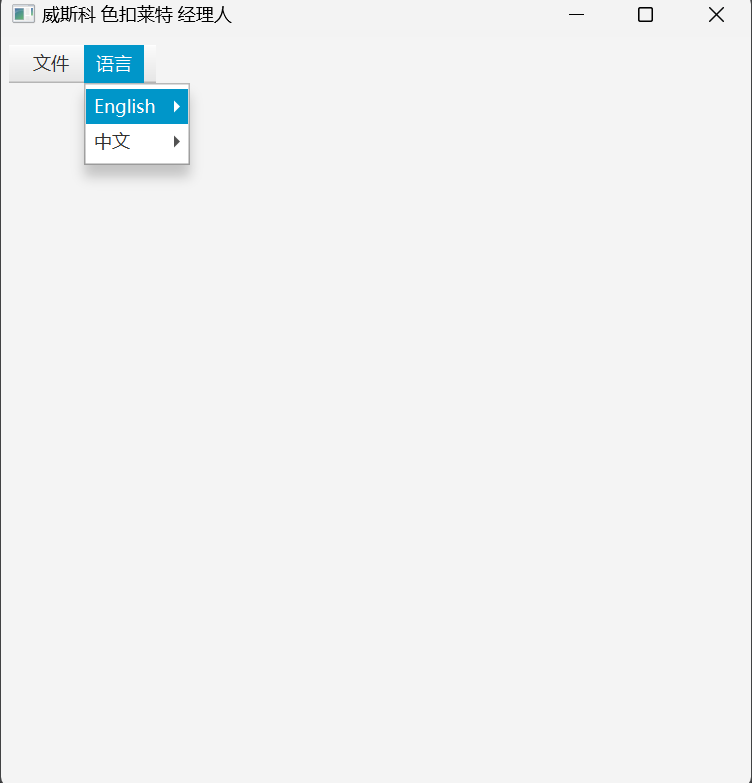
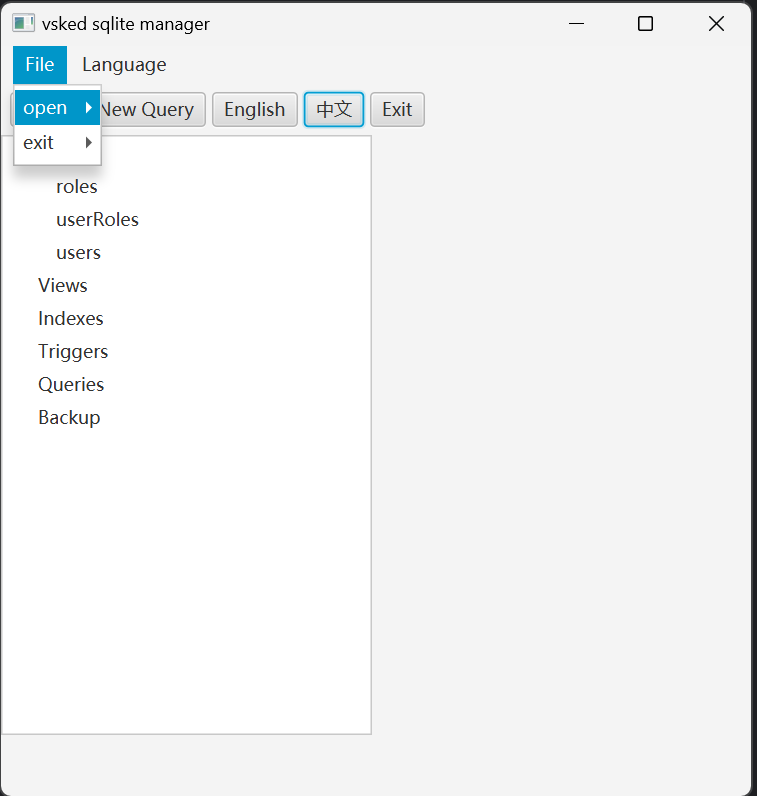
show tables in tables list
update connection remove exception and log
add table ,table list ,table name and table service.
optimize file open ,close ,english,chinese button action bind

Changed region(s): [[0.0, 0.0, 1.0, 1.0], [0.0306, 0.3985, 0.1529, 0.4904], [0.0612, 0.5211, 0.1223, 0.5517]]

diff --git a/src/main/java/com/vsked/sqlitemanager/ui/ApplicationMainUI.java b/src/main/java/com/vsked/sqlitemanager/ui/ApplicationMainUI.java
@@ -1,7 +1,12 @@
 package com.vsked.sqlitemanager.ui;
 
 import com.vsked.sqlitemanager.domain.I18N;
+import com.vsked.sqlitemanager.domain.VConnection;
+import com.vsked.sqlitemanager.domain.VDatabaseFile;
+import com.vsked.sqlitemanager.domain.VTable;
+import com.vsked.sqlitemanager.domain.VTableList;
 import com.vsked.sqlitemanager.services.ApplicationService;
+import com.vsked.sqlitemanager.services.TableService;
 import javafx.application.Application;
 import javafx.application.Platform;
 import javafx.event.ActionEvent;
@@ -19,6 +24,8 @@ import javafx.stage.Stage;
 import javafx.stage.WindowEvent;
 import org.slf4j.Logger;
 import org.slf4j.LoggerFactory;
+
+import java.util.List;
 import java.util.Locale;
 
 
@@ -49,16 +56,6 @@ public class ApplicationMainUI extends Application {
 		Menu fileOpenMenu = I18N.menuForKey("menuItem.open");
 		Menu fileExitMenu = I18N.menuForKey("menuItem.exit");
 
-		fileOpenMenu.setOnAction(new EventHandler<ActionEvent>() {
-
-			@Override
-			public void handle(ActionEvent event) {
-				if(log.isTraceEnabled()) {
-					log.trace("You click the file open menu from menu Item");
-				}
-				applicationService.openDataBaseFile(stage);
-			}
-		});
 
 		fileExitMenu.setOnAction(new EventHandler<ActionEvent>() {
 
@@ -112,37 +109,12 @@ public class ApplicationMainUI extends Application {
 		Button chineseBt=I18N.buttonForKey("button.chinese");
 		Button exitBt=I18N.buttonForKey("button.exit");
 
-		englishBt.setOnAction(new EventHandler<ActionEvent>() {
-			@Override
-			public void handle(ActionEvent event) {
-				if(log.isTraceEnabled()) {
-					log.trace("You click the english button from tool bar");
-				}
-				switchLanguage(Locale.ENGLISH);
-			}
-		});
 
-		chineseBt.setOnAction(new EventHandler<ActionEvent>() {
+		englishBt.setOnAction(englishMenu.getOnAction());
 
-			@Override
-			public void handle(ActionEvent event) {
-				if(log.isTraceEnabled()) {
-					log.trace("You click the chinese button from tool bar");
-				}
-				switchLanguage(Locale.CHINESE);
-			}
-		});
+		chineseBt.setOnAction(chineseMenu.getOnAction());
 
-		exitBt.setOnAction(new EventHandler<ActionEvent>() {
-
-			@Override
-			public void handle(ActionEvent event) {
-				if(log.isTraceEnabled()) {
-					log.trace("You click the file exit button from tool bar");
-				}
-				applicationService.exit();
-			}
-		});
+		exitBt.setOnAction(fileExitMenu.getOnAction());
 
 		toolBar.getItems().add(openBt);
 		toolBar.getItems().add(queryBt);
@@ -155,8 +127,6 @@ public class ApplicationMainUI extends Application {
 		GridPane topGridPane=new GridPane();
 		topGridPane.add(menuBar,0,0);
 		topGridPane.add(toolBar,0,1);
-
-
 
 		content.setTop(topGridPane);
 
@@ -185,6 +155,28 @@ public class ApplicationMainUI extends Application {
 
 		leftGridPane.add(systemViewTree,0,0);
 		content.setLeft(leftGridPane);
+
+		fileOpenMenu.setOnAction(new EventHandler<ActionEvent>() {
+
+			@Override
+			public void handle(ActionEvent event) {
+				if(log.isTraceEnabled()) {
+					log.trace("You click the file open menu from menu Item");
+				}
+				VDatabaseFile databaseFile=applicationService.openDataBaseFile(stage);
+				VConnection connection=new VConnection(databaseFile);
+				TableService tableService=new TableService();
+				VTableList vTableList=tableService.getTables(connection);
+				List<VTable> tableList=vTableList.getTables();
+				for(VTable table:tableList){
+					TreeItem<String> tablesItemNode=new TreeItem<>(table.getTableName().getTableName());
+					tablesItem.getChildren().add(tablesItemNode);
+				}
+
+			}
+		});
+
+		openBt.setOnAction(fileOpenMenu.getOnAction());
 
 
 		Scene scene = new Scene(content, 500, 500);

diff --git a/src/main/java/com/vsked/sqlitemanager/domain/VConnection.java b/src/main/java/com/vsked/sqlitemanager/domain/VConnection.java
@@ -8,36 +8,31 @@ public class VConnection {
 
     private final Connection connection;
 
-    public VConnection(Connection connection) throws SQLException {
-        if(connection==null){
-            throw new SQLException("connection is null");
+    public VConnection(VDatabaseFile databaseFile) {
+        if(databaseFile==null){
+            throw new IllegalArgumentException("connection database file is null code1");
         }
 
-        if(connection.isClosed()){
-            throw new SQLException("connection has closed");
+        if(databaseFile.getDatabaseFile()==null){
+            throw new IllegalArgumentException("connection database file is null code2");
         }
-        this.connection = connection;
-    }
 
-    public VConnection(String databaseFilePath) throws SQLException {
-        if(databaseFilePath==null){
-            throw new SQLException("connection database file name is null");
-        }
+        String databaseFilePath=databaseFile.getDatabaseFile().getAbsolutePath();
 
         String lowCaseFileName=databaseFilePath.toLowerCase();
 
         if(!lowCaseFileName.endsWith(".db")){
-            throw new SQLException("connection database file name is not end with db");
+            throw new IllegalArgumentException("connection database file name is not end with db");
         }
 
         if(databaseFilePath.length()<=3){
-            throw new SQLException("connection database file name can't empty");
+            throw new IllegalArgumentException("connection database file name can't empty");
         }
 
         try {
             Class.forName("org.sqlite.JDBC");
             this.connection = DriverManager.getConnection("jdbc:sqlite:"+databaseFilePath);
-        } catch (ClassNotFoundException e) {
+        } catch (Exception e) {
             throw new RuntimeException(e);
         }
     }

diff --git a/src/main/java/com/vsked/sqlitemanager/services/TableService.java b/src/main/java/com/vsked/sqlitemanager/services/TableService.java
@@ -1,4 +1,42 @@
 package com.vsked.sqlitemanager.services;
 
+import com.vsked.sqlitemanager.domain.VTableName;
+import com.vsked.sqlitemanager.domain.VConnection;
+import com.vsked.sqlitemanager.domain.VTable;
+import com.vsked.sqlitemanager.domain.VTableList;
+import java.sql.Connection;
+import java.sql.ResultSet;
+import java.sql.Statement;
+import java.util.LinkedList;
+import java.util.List;
+
 public class TableService {
+
+    public VTableList getTables(VConnection connection){
+        List<VTable> tableList=new LinkedList<>();
+
+        try {
+
+            Connection conn= connection.getConnection();
+            Statement st=conn.createStatement();
+            String sql="SELECT name FROM sqlite_master WHERE type='table'";
+            ResultSet rs=st.executeQuery(sql);
+
+            String tableName="";
+
+            while (rs.next()){
+                tableName=rs.getString("name");
+                tableList.add(new VTable(new VTableName(tableName)));
+            }
+
+            rs.close();
+            st.close();
+            conn.close();
+        } catch (Exception e) {
+            throw new RuntimeException(e);
+        }
+
+        return new VTableList(tableList);
+
+    }
 }

diff --git a/src/main/java/com/vsked/sqlitemanager/domain/VTableName.java b/src/main/java/com/vsked/sqlitemanager/domain/VTableName.java
@@ -1,0 +1,17 @@
+package com.vsked.sqlitemanager.domain;
+
+public class VTableName {
+    private String tableName;
+
+    public VTableName(String tableName) {
+        if(tableName==null){
+            throw new IllegalArgumentException("table name not be null！");
+        }
+        //TODO check min and max table name length
+        this.tableName = tableName;
+    }
+
+    public String getTableName() {
+        return tableName;
+    }
+}

diff --git a/src/main/java/com/vsked/sqlitemanager/domain/VTableList.java b/src/main/java/com/vsked/sqlitemanager/domain/VTableList.java
@@ -1,0 +1,17 @@
+package com.vsked.sqlitemanager.domain;
+
+import java.util.LinkedList;
+import java.util.List;
+
+public class VTableList {
+
+    private List<VTable> tables=new LinkedList<>();
+
+    public VTableList(List<VTable> tables) {
+        this.tables = tables;
+    }
+
+    public List<VTable> getTables() {
+        return tables;
+    }
+}

diff --git a/src/main/java/com/vsked/sqlitemanager/domain/VTable.java b/src/main/java/com/vsked/sqlitemanager/domain/VTable.java
@@ -1,0 +1,13 @@
+package com.vsked.sqlitemanager.domain;
+
+public class VTable {
+    private VTableName VTableName;
+
+    public VTable(VTableName VTableName) {
+        this.VTableName = VTableName;
+    }
+
+    public VTableName getTableName() {
+        return VTableName;
+    }
+}

diff --git a/src/main/java/com/vsked/sqlitemanager/domain/VDatabaseFile.java b/src/main/java/com/vsked/sqlitemanager/domain/VDatabaseFile.java
@@ -11,4 +11,8 @@ public class VDatabaseFile {
         }
         this.databaseFile = databaseFile;
     }
+
+    public File getDatabaseFile() {
+        return databaseFile;
+    }
 }

diff --git a/src/main/java/com/vsked/sqlitemanager/domain/VTableColumn.java b/src/main/java/com/vsked/sqlitemanager/domain/VTableColumn.java
@@ -1,0 +1,4 @@
+package com.vsked.sqlitemanager.domain;
+
+public class VTableColumn {
+}
